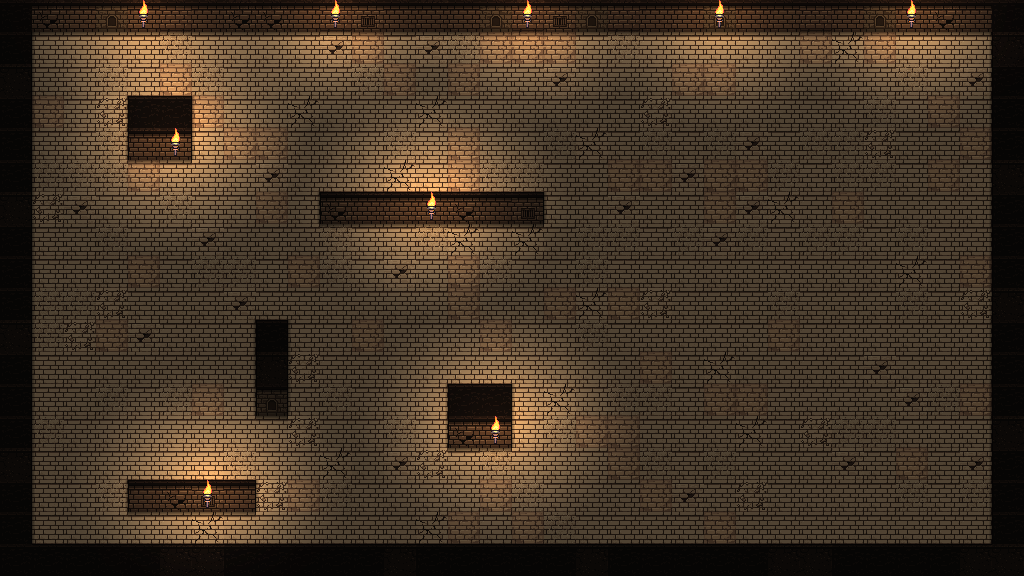
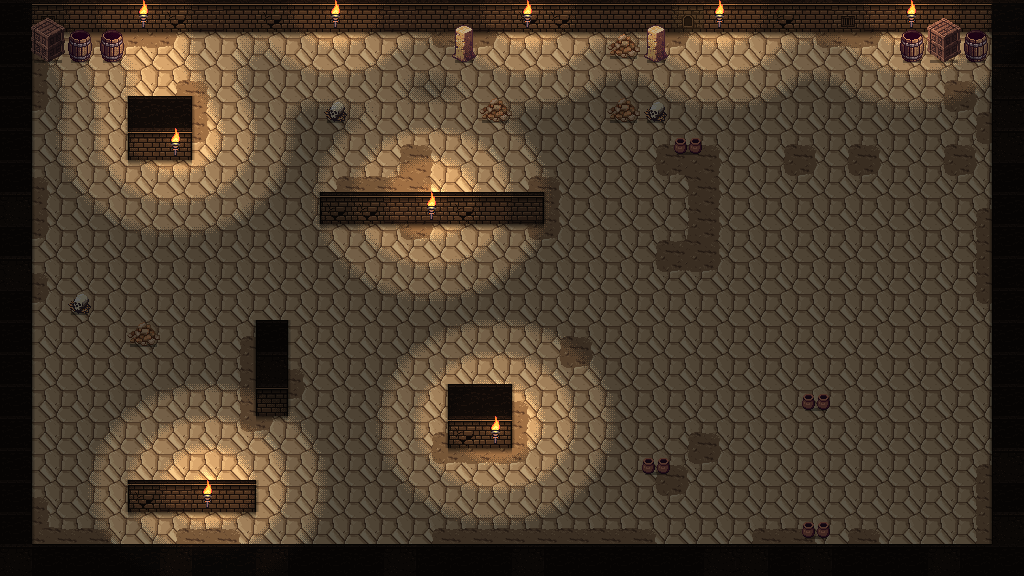
assets: 지하 미궁 맵 퀄리티 개선 (판석 바닥·단계 빛·벽 명암·소품)
사용자 지적: 바닥 반복·단조로움, 빛이 뿌옇고 탁함, 벽이 납작함, 장식 없음.
바닥은 판석↔모래 Wang 타일셋을 노이즈로 섞고, 빛은 5단계로 끊어 경계만 디더, 벽 턱·모서리 명암,
PixelLab 소품(통·상자·기둥·해골·돌무더기·항아리)을 얹음.

diff --git a/assets/concepts/pixellab/labyrinth/build_map_bg.py b/assets/concepts/pixellab/labyrinth/build_map_bg.py
@@ -1,19 +1,18 @@
 """지하 미궁 맵 바탕 그림 만들기.
 
 2026-11-19 사용자 요청: 첫 스테이지는 지하 미궁, 낡은 돌 미궁, 벽은 비스듬히(3/4) 보이게.
-같은 날 사용자 지적: 푸른 회색 돌(tiles_v1)은 하수도 느낌 → 참고 그림처럼 따뜻한 색(베이지 돌바닥·갈색 벽돌 벽),
-벽 윗면·바깥은 거의 검고, 횃불 둘레만 따뜻하게 밝게 (tiles_v2 + 횃불 + 빛).
+같은 날 ① 푸른 회색 돌(tiles_v1)은 하수도 느낌 → 따뜻한 색(tiles_v2) + 횃불 빛.
+② "분위기는 괜찮은데 퀄리티가 떨어짐" (바닥 반복·단조로움, 빛이 뿌옇고 탁함, 벽이 납작함, 장식 없음) →
+   바닥은 PixelLab Wang 타일셋(큰 판석 ↔ 모래·부스러기, floor_wang)을 노이즈로 섞어 격자·반복이 안 보이게,
+   빛은 몇 단계로 끊고 경계만 4×4 디더로 섞어 픽셀 그림답게, 벽은 윗면 턱 하이라이트·앞면 위 그늘·모서리 그늘,
+   소품은 PixelLab 그림(props): 막는 소품은 맵 글자(B 통, C 상자, I 기둥), 밟고 지나가는 해골·돌무더기·항아리는 자동으로 드문드문.
 
-글자 맵(assets/maps/<이름>.txt)을 읽어 칸마다 PixelLab 타일(32×32)을 골라 맵 크기의 그림 한 장으로 합친다.
-게임은 이 그림을 바닥에 한 번 그린다 (게임에는 PIL 이 필요 없음). 맵 글자를 바꾸면 이 스크립트를 다시 돌린다.
-
-칸 규칙 (그림이 충돌 칸과 정확히 겹치게 칸 안에서만 그린다):
-  - 바닥: 벽돌 바닥 변형 중 칸 좌표로 정해지는 것 (같은 맵이면 늘 같은 그림), 금·부스러기는 드물게.
-  - 벽: 아래 칸이 바닥이면 '앞에서 보이는 벽' → 위 FACE_TOP 줄은 벽 윗면, 그 아래는 벽돌 앞면(3/4 시점). 아래도 벽이면 윗면만.
-  - 벽 윗면이 바닥과 닿는 가장자리에는 테두리, 벽 바로 아래·옆 바닥에는 그늘.
-  - 앞에서 보이는 벽 줄에 TORCH_EVERY 칸마다 횃불을 걸고, 그림 전체를 어둡게 한 뒤 횃불 둘레만 따뜻하게 밝힌다.
+글자 맵(assets/maps/<이름>.txt)을 읽어 맵 크기의 그림 한 장으로 합친다. 게임은 이 그림을 바닥에 한 번 그린다
+(게임에는 PIL 이 필요 없음). 맵 글자를 바꾸면 이 스크립트를 다시 돌린다.
+그림은 충돌 칸과 정확히 겹친다: 벽은 칸 안에서만 그리고, 바닥 Wang 타일은 바닥끼리만 이어지므로 칸에 맞춰 놓는다.
 출력: assets/images/maps/<이름>_bg.png (맵 칸 수 × 32 픽셀), 미리보기 preview_<이름>_x2.png
 """
+import json
 import math
 import os
 import sys
@@ -23,24 +22,32 @@ from PIL import Image
 HERE = os.path.dirname(os.path.abspath(__file__))
 ROOT = os.path.normpath(os.path.join(HERE, '..', '..', '..', '..'))
 TILES = os.path.join(HERE, 'tiles_v2')
+WANG = os.path.join(HERE, 'floor_wang')
+PROPS_DIR = os.path.join(HERE, 'props')
 TORCH = os.path.join(HERE, 'torch_v1.png')
 T = 32
 FACE_TOP = 6  # 앞에서 보이는 벽에서 윗면이 차지하는 줄 수 (나머지는 벽돌 앞면)
+BLOCKING = {'B': 'barrel', 'C': 'crates', 'I': 'pillar'}  # game/world/tile_map.py PROPS 와 같음
+DECALS = [('bones', 2), ('rubble', 3), ('pots', 2)]  # 밟고 지나가는 소품 (그림, 비중)
+DECAL_CHANCE = 0.025  # 바닥 칸마다 소품이 놓일 확률 (칸 좌표로 정해져 늘 같음)
+SAND_SHARE = 0.16  # 바닥에서 모래·부스러기 구역의 대략 비율
+SAND_NEAR_WALL = 0.18  # 벽 가까이는 모래가 더 쌓임 (꼭짓점 노이즈에 더함)
 
-# tiles_v2 번호 (0 부터): 벽돌 바닥 0~5, 큰 판석 6·7(쓰지 않음: 섞으면 얼룩덜룩), 벽 윗면 8·9, 벽돌 앞면 10~13·15
-FLOOR = [(0, 30), (2, 6), (4, 6), (1, 3), (3, 2), (5, 2)]  # (타일, 비중)
+# tiles_v2 번호 (0 부터): 벽 윗면 8·9, 벽돌 앞면 10~13·15
 WALL_TOP = [(8, 3), (9, 1)]
 WALL_FACE = [(10, 10), (11, 3), (13, 3), (12, 1), (15, 1)]  # 15 = 빈 벽감, 12 = 쇠창살 환기구 (드물게)
 GREY_TO_BROWN = {(0x3a, 0x3a, 0x40): (0x35, 0x25, 0x1b), (0x55, 0x55, 0x5c): (0x5a, 0x41, 0x30),
                  (0x76, 0x76, 0x7c): (0x6e, 0x52, 0x3c)}  # 팔레트의 회색 → 갈색 (하수도 느낌 빼기)
 RIM = (10, 7, 6, 255)
+LEDGE = (0x83, 0x65, 0x4a, 255)  # 벽 윗면 앞 턱 하이라이트
 WALL_FACE_DARK = 0.8  # 벽 앞면은 바닥보다 어둡게
 TORCH_EVERY = 6  # 앞에서 보이는 벽 줄에서 몇 칸마다 횃불
 TORCH_SCALE = 0.62
-AMBIENT = 0.42  # 횃불 빛이 닿지 않는 곳의 밝기
-TORCH_LIGHT = 1.0  # 횃불 바로 앞에서 더해지는 밝기
 TORCH_RADIUS = 4.5 * T  # 빛이 닿는 거리 (픽셀)
-WARM = (1.08, 0.92, 0.72)  # 횃불 빛 색 (빨강·초록·파랑 배율)
+LIGHT_LEVELS = (0.38, 0.55, 0.75, 1.0, 1.25)  # 빛을 이 단계로 끊는다 (픽셀 그림답게)
+WARM = (1.08, 0.92, 0.72)  # 횃불 빛 색 (빨강·초록·파랑 배율), 밝은 단계일수록 강하게
+DITHER_SHARPNESS = 3.0  # 클수록 디더 띠가 좁아짐 (2배로 보면 체크 무늬가 바닥 전체에 깔려 지저분했음)
+BAYER = [[0, 8, 2, 10], [12, 4, 14, 6], [3, 11, 1, 9], [15, 7, 13, 5]]
 
 
 def lum(p):
@@ -73,12 +80,16 @@ def recolor(tile):
     return out
 
 
+def hash01(a, b, salt):
+    h = (a * 73856093) ^ (b * 19349663) ^ (salt * 83492791)
+    h = (h ^ (h >> 13)) * 1274126177 & 0xFFFFFFFF
+    return (h & 0xFFFF) / 0xFFFF
+
+
 def pick(choices, col, row, salt):
     """칸 좌표로 정해지는 고르기 (무작위처럼 보이지만 늘 같음)."""
-    h = (col * 73856093) ^ (row * 19349663) ^ (salt * 83492791)
-    h = (h ^ (h >> 13)) * 1274126177 & 0xFFFFFFFF
     total = sum(w for _, w in choices)
-    r = h % total
+    r = hash01(col, row, salt) * total
     for idx, w in choices:
         if r < w:
             return idx
@@ -86,40 +97,79 @@ def pick(choices, col, row, salt):
     return choices[-1][0]
 
 
+def value_noise(x, y, cell, salt):
+    """부드러운 값 노이즈 0~1 (cell 칸마다 무작위 값, 사이는 부드럽게 이음)."""
+    gx, gy = x / cell, y / cell
+    x0, y0 = math.floor(gx), math.floor(gy)
+    fx, fy = gx - x0, gy - y0
+    sx, sy = fx * fx * (3 - 2 * fx), fy * fy * (3 - 2 * fy)
+    v = [[hash01(x0 + i, y0 + j, salt) for i in (0, 1)] for j in (0, 1)]
+    top = v[0][0] + (v[0][1] - v[0][0]) * sx
+    bot = v[1][0] + (v[1][1] - v[1][0]) * sx
+    return top + (bot - top) * sy
+
+
+def load_wang():
+    sheet = Image.open(os.path.join(WANG, 'sheet.png')).convert('RGBA')
+    meta = json.load(open(os.path.join(WANG, 'metadata.json'), encoding='utf-8'))
+    tiles = meta['tileset_data']['tiles']
+    out = {}
+    for t in tiles:
+        c, bb = t['corners'], t['bounding_box']
+        key = tuple(c[k] == 'upper' for k in ('NW', 'NE', 'SW', 'SE'))
+        out.setdefault(key, sheet.crop((bb['x'], bb['y'], bb['x'] + bb['width'], bb['y'] + bb['height'])))
+    return out
+
+
 def build(name):
     lines = [l.rstrip('\r\n') for l in open(os.path.join(ROOT, 'assets', 'maps', f'{name}.txt'), encoding='utf-8')
              if l.strip()]
     rows, cols = len(lines), len(lines[0])
     tiles = [recolor(Image.open(os.path.join(TILES, f'tile_{i}.png')).convert('RGBA')) for i in range(16)]
-    base = lum_mean(tiles[0])
-    for i, _ in FLOOR:  # 바닥 변형 밝기를 기본 판에 맞춤 (바둑판처럼 보이지 않게)
-        scale(tiles[i], (0, 0, T, T), base / lum_mean(tiles[i]))
     face_base = lum_mean(tiles[WALL_FACE[0][0]])
-    for i, _ in WALL_FACE:  # 벽 앞면 변형 밝기도 기본 벽돌에 맞춤 (벽감 타일이 밝은 베이지라 튀었음)
+    for i, _ in WALL_FACE:  # 벽 앞면 변형 밝기를 기본 벽돌에 맞춤 (벽감 타일이 밝은 베이지라 튀었음)
         scale(tiles[i], (0, 0, T, T), WALL_FACE_DARK * face_base / lum_mean(tiles[i]))
+    wang = load_wang()
+    props = {n: Image.open(os.path.join(PROPS_DIR, f'{n}.png')).convert('RGBA')
+             for n in list(BLOCKING.values()) + [d for d, _ in DECALS]}
+    props = {n: p.crop(p.getbbox()) for n, p in props.items()}
 
-    def wall(c, r):  # r = 그림의 줄 (0 = 맨 위). 맵 밖은 벽으로 본다
+    def wall(c, r):  # r = 그림의 줄 (0 = 맨 위). 맵 밖은 벽으로 본다. 소품 칸은 바닥으로 그린다
         return not (0 <= c < cols and 0 <= r < rows) or lines[r][c] == '#'
 
     def front(c, r):
         return wall(c, r) and not wall(c, r + 1)
+
+    # 바닥 꼭짓점 (cols+1 × rows+1): 노이즈 + 벽 가까이 가산 → 모래·부스러기 여부
+    def near_wall(vx, vy):
+        return any(wall(vx + dx, vy + dy) for dx in (-1, 0) for dy in (-1, 0))
+
+    vals = {}
+    for vy in range(rows + 1):
+        for vx in range(cols + 1):
+            n = 0.55 * value_noise(vx, vy, 3.0, 7) + 0.45 * value_noise(vx, vy, 1.3, 8)  # 잘게 섞어 네모난 덩어리를 깸
+            vals[(vx, vy)] = n + (SAND_NEAR_WALL if near_wall(vx, vy) else 0)
+    cut = sorted(vals.values())[int(len(vals) * (1 - SAND_SHARE))]
+    sand = {k: v >= cut for k, v in vals.items()}
 
     img = Image.new('RGBA', (cols * T, rows * T), (0, 0, 0, 255))
     for r in range(rows):
         for c in range(cols):
             x, y = c * T, r * T
             if not wall(c, r):
-                img.alpha_composite(tiles[pick(FLOOR, c, r, 1)], (x, y))
+                key = (sand[(c, r)], sand[(c + 1, r)], sand[(c, r + 1)], sand[(c + 1, r + 1)])
+                img.alpha_composite(wang[key], (x, y))
             elif front(c, r):  # 아래가 바닥: 윗면 + 벽돌 앞면
                 img.alpha_composite(tiles[pick(WALL_TOP, c, r, 2)].crop((0, 0, T, FACE_TOP)), (x, y))
                 face = tiles[pick(WALL_FACE, c, r, 3)]
                 img.alpha_composite(face.crop((0, 0, T, T - FACE_TOP)), (x, y + FACE_TOP))
-                scale(img, (x, y + FACE_TOP, x + T, y + FACE_TOP + 2), 0.55)  # 윗면 끝 아래 그늘
+                for k, f in enumerate((0.5, 0.65, 0.8)):  # 턱 아래 그늘
+                    scale(img, (x, y + FACE_TOP + k, x + T, y + FACE_TOP + k + 1), f)
                 scale(img, (x, y + T - 3, x + T, y + T), 0.7)  # 벽 밑동
             else:
                 img.alpha_composite(tiles[pick(WALL_TOP, c, r, 2)], (x, y))
     px = img.load()
-    for r in range(rows):  # 벽 윗면 테두리
+    for r in range(rows):  # 벽 윗면 테두리·턱 하이라이트, 앞면 양 끝 그늘
         for c in range(cols):
             if not wall(c, r):
                 continue
@@ -127,14 +177,17 @@ def build(name):
             if not wall(c, r - 1):
                 for i in range(T):
                     px[x + i, y] = RIM
-            for dc, xx in ((-1, x), (1, x + T - 1)):
+            for dc, xx, inner in ((-1, x, x + 1), (1, x + T - 1, x + T - 2)):
                 if not wall(c + dc, r):
                     for j in range(T):
                         px[xx, y + j] = RIM
+                    if front(c, r):  # 앞면 양 끝은 모서리라 어둡게
+                        scale(img, (min(inner, xx), y + FACE_TOP, max(inner, xx) + 1, y + T), 0.7)
             if front(c, r):
                 for i in range(T):
+                    px[x + i, y + FACE_TOP - 2] = LEDGE  # 턱 위 하이라이트
                     px[x + i, y + FACE_TOP - 1] = RIM
-    for r in range(rows):  # 바닥 그늘
+    for r in range(rows):  # 바닥 그늘: 위가 벽이면 위쪽 6줄, 왼쪽·오른쪽이 벽이면 그쪽 3줄
         for c in range(cols):
             if wall(c, r):
                 continue
@@ -148,6 +201,29 @@ def build(name):
             if wall(c + 1, r):
                 for k, f in enumerate((0.6, 0.75, 0.88)):
                     scale(img, (x + T - 1 - k, y, x + T - k, y + T), f)
+
+    # 소품: 막는 소품(맵 글자) + 밟고 지나가는 소품(드문드문). 아래 가운데를 칸 아래쪽에 맞춤, 바닥에 작은 그림자
+    def place(prop, c, r, foot_pad):
+        x = c * T + (T - prop.width) // 2
+        y = r * T + T - foot_pad - prop.height
+        shadow_w = max(6, prop.width - 6)
+        sx = c * T + (T - shadow_w) // 2
+        scale(img, (sx, r * T + T - foot_pad - 2, sx + shadow_w, r * T + T - foot_pad + 1), 0.6)
+        img.alpha_composite(prop, (x, y))
+
+    special = set()
+    for r in range(rows):
+        for c in range(cols):
+            ch = lines[r][c]
+            if ch in 'PDG':
+                special |= {(c + dx, r + dy) for dx in (-1, 0, 1) for dy in (-2, -1, 0, 1)}
+    for r in range(rows):
+        for c in range(cols):
+            ch = lines[r][c]
+            if ch in BLOCKING:
+                place(props[BLOCKING[ch]], c, r, 2)
+            elif not wall(c, r) and ch == '.' and (c, r) not in special and hash01(c, r, 9) < DECAL_CHANCE:
+                place(props[pick(DECALS, c, r, 10)], c, r, 6)
 
     # 횃불: 앞에서 보이는 벽 줄을 왼쪽부터 세어 TORCH_EVERY 칸마다 (짧은 줄은 가운데 하나)
     torches = []
@@ -177,23 +253,29 @@ def build(name):
         img.alpha_composite(torch, (x, y))
         flames.append((x + torch.width / 2, y + torch.height * 0.2))
 
-    # 빛: 전체를 AMBIENT 로 어둡게, 횃불 둘레는 따뜻하게 밝게 (가까울수록 더 밝음)
+    # 빛: 밝기를 LIGHT_LEVELS 단계로 끊고 단계 사이는 4×4 디더로 섞는다 (매끄러운 그라데이션은 뿌옇게 보였음)
     px = img.load()
+    levels = LIGHT_LEVELS
     for y in range(img.height):
         for x in range(img.width):
-            light = AMBIENT
-            warm = 0.0
+            light = levels[0]
             for fx, fy in flames:
                 d = math.hypot(x - fx, (y - fy) * 1.15)
                 if d < TORCH_RADIUS:
-                    k = (1 - d / TORCH_RADIUS) ** 1.6
-                    light += TORCH_LIGHT * k
-                    warm += k
-            warm = min(1.0, warm)
-            r_, g_, b_, a_ = px[x, y]
+                    light += (levels[-1] - levels[0]) * (1 - d / TORCH_RADIUS) ** 1.5
+            light = min(levels[-1], light)
+            i = max(k for k in range(len(levels)) if levels[k] <= light + 1e-9)
+            if i < len(levels) - 1:
+                frac = (light - levels[i]) / (levels[i + 1] - levels[i])
+                frac = min(1.0, max(0.0, (frac - 0.5) * DITHER_SHARPNESS + 0.5))  # 디더는 단계 경계 좁은 띠에만
+                if frac > (BAYER[y % 4][x % 4] + 0.5) / 16:
+                    i += 1
+            lv = levels[i]
+            warm = i / (len(levels) - 1)
             tint = [1 + (w - 1) * warm for w in WARM]
-            px[x, y] = (min(255, round(r_ * light * tint[0])), min(255, round(g_ * light * tint[1])),
-                        min(255, round(b_ * light * tint[2])), a_)
+            r_, g_, b_, a_ = px[x, y]
+            px[x, y] = (min(255, round(r_ * lv * tint[0])), min(255, round(g_ * lv * tint[1])),
+                        min(255, round(b_ * lv * tint[2])), a_)
     out_dir = os.path.join(ROOT, 'assets', 'images', 'maps')
     os.makedirs(out_dir, exist_ok=True)
     img.save(os.path.join(out_dir, f'{name}_bg.png'))

diff --git a/docs/DECISIONS.md b/docs/DECISIONS.md
@@ -863,5 +863,13 @@
   큰 판석 2종(안 씀), 거의 검은 벽 윗면 2종, 갈색 벽돌 앞면 6종(환기구·벽감 포함)) + 벽에 거는 횃불(`torch_v1.png`, PixelLab).
   팔레트의 회색은 갈색으로 바꾸고, 벽 앞면 변형 밝기를 기본 벽돌에 맞춘 뒤 0.8 배. 앞에서 보이는 벽 줄에 6칸마다(짧은 줄은 가운데)
   횃불을 걸고, 그림 전체를 0.42 배로 어둡게 한 뒤 횃불 둘레(반지름 4.5칸)만 따뜻한 색으로 밝힘 (불꽃은 아직 움직이지 않음).
-- 아직 아님: 인물이 벽 뒤(위쪽)에 설 때 벽 앞면이 인물을 가리는 앞뒤 그리기, 횃불 불꽃 움직임, 뼈·돌무더기 같은 장식.
+- (같은 날 사용자: 분위기는 괜찮은데 퀄리티가 떨어짐 → 바닥 반복·단조로움, 빛이 뿌옇고 탁함, 벽이 납작함, 장식 없음 모두)
+  - 바닥: 예전 바닥 타일은 사실 벽돌 벽 무늬(옆에서 본 벽돌)라 32 픽셀마다 격자로 보였다. PixelLab Wang 타일셋(pro, 큰 판석 ↔ 모래·부스러기,
+    `floor_wang/`)을 꼭짓점 노이즈로 섞음 (모래 약 16%, 벽 가까이 더 쌓임). 바닥끼리만 이어지므로 칸에 맞춰 놓아도 충돌과 어긋나지 않음.
+  - 빛: 매끄러운 그라데이션 → 밝기 5단계(0.38~1.25)로 끊고 단계 경계 좁은 띠만 4×4 디더 (2배로 보면 넓은 디더가 체크 무늬로 지저분했음).
+  - 벽: 윗면 앞 턱 하이라이트 + 테두리, 턱 아래 3줄 그늘, 앞면 양 끝 모서리 그늘.
+  - 소품(PixelLab, `props/`): 막는 소품은 맵 글자 `B` 통·`C` 상자 더미·`I` 부서진 기둥(벽처럼 못 지나감, `TileMap.props`),
+    밟고 지나가는 해골·돌무더기·항아리는 바닥 칸 약 2.5% 에 칸 좌표로 정해 놓음 (주인공·허수아비·골렘 둘레는 비움). 소품 밑에 작은 그림자.
+    막는 소품은 위가 벽인 칸에만 둔다 (그림이 바탕에 박혀 있어 소품 뒤에 인물이 서면 앞뒤가 틀리므로).
+- 아직 아님: 인물이 벽 뒤(위쪽)에 설 때 벽 앞면이 인물을 가리는 앞뒤 그리기, 횃불 불꽃 움직임.
 

diff --git a/assets/README.md b/assets/README.md
@@ -58,7 +58,7 @@
 | `images/player/weapons/old_sword_front_3.png` | 사용자 PixelLab(pixellab.ai) 계정으로 생성한 정면 3타 그림의 칼을 Claude Code가 떼어 칼 색으로 바꿈 (`export_to_game.py`, 2026-11-17) | PixelLab 이용약관에 따름 (사용자 계정 생성물) | 96×64 × 8, 찌르는 6~8번째만 그림. 정면 3타 찌르기용 칼 그림. D-031 |
 | `images/player/weapons/old_sword_back_{front,side,back}.png` | Claude Code 제작: 낡은 검 그림에 칼집을 씌우고 기울여 계산 (`concepts/weapons/build_back_sword.py`, 2026-11-18) | 프로젝트 소유 | 64×64, 아래 가운데가 발 밑. 등에 멘 칼. D-049 |
 | `images/player/weapons/old_sword.png` | Claude Code 제작 (`concepts/weapons/build_old_sword.py`, 2026-11-17). 컨셉 시트의 낡은 검 기준 | 프로젝트 소유 | 56×10, 칼끝 오른쪽, 손이 한가운데. D-022 |
-| `images/maps/test_room_bg.png` | 사용자 PixelLab(pixellab.ai) 계정으로 생성한 지하 미궁 타일(`concepts/pixellab/labyrinth/tiles_v2/`)·횃불(`torch_v1.png`)을 Claude Code가 칸마다 합치고 빛을 계산함 (`build_map_bg.py`, 2026-11-19) | PixelLab 이용약관에 따름 (사용자 계정 생성물) | 1024×576 (맵 32×18칸 × 32). D-052 |
+| `images/maps/test_room_bg.png` | 사용자 PixelLab(pixellab.ai) 계정으로 생성한 지하 미궁 타일(`concepts/pixellab/labyrinth/tiles_v2/`)·바닥 Wang 타일셋(`floor_wang/`)·횃불(`torch_v1.png`)·소품(`props/` 통·상자·해골·돌무더기·기둥·항아리)을 Claude Code가 칸마다 합치고 빛을 계산함 (`build_map_bg.py`, 2026-11-19) | PixelLab 이용약관에 따름 (사용자 계정 생성물) | 1024×576 (맵 32×18칸 × 32). D-052 |
 
 > ~~`concepts/player_walk_reference.png`, `images/player/{idle,walk}_{front,back,side}.png`~~ (2026-11-03 v3로 교체하며 삭제. v1/v2 `player_master` 이미지는 커밋하지 않았고 v3 결과와 섞이지 않음)
 

diff --git a/TASKS.md b/TASKS.md
@@ -7,7 +7,7 @@
 
 | ID | 작업 | 상태 | 담당 | 브랜치 | 비고 |
 |---|---|---|---|---|---|
-| T-051 | 지하 미궁 맵 그림 (첫 스테이지) | 진행 중 | Claude Code | `claude/labyrinth-tileset` | 따뜻한 돌 미궁(베이지 바닥·갈색 벽돌·횃불 빛), PixelLab 타일을 칸마다 합친 바탕 그림, 벽 윗면 + 3/4 벽돌 앞면 (D-052). 횃불 움직임·장식·벽 앞뒤 그리기·미궁 구조 남음 |
+| T-051 | 지하 미궁 맵 그림 (첫 스테이지) | 진행 중 | Claude Code | `claude/labyrinth-tileset` | 따뜻한 돌 미궁: 판석·모래 Wang 바닥, 3/4 벽(턱·모서리 명암), 단계 끊은 횃불 빛, 소품(B·C·I 막음, 바닥 장식) (D-052). 횃불 움직임·벽 앞뒤 그리기·미궁 구조 남음 |
 | T-050 | 공격 버튼 누르고 있으면 콤보 이어짐 | 검토 중 | Claude Code | `claude/golem-stomp-vfx` | 누르는 동안 입력 기억을 매 프레임 다시 채움, 쿨타임은 그대로 (D-050) |
 | T-049 | 칼을 등에 멤 | 검토 중 | Claude Code | `claude/golem-stomp-vfx` | 공격·패링 말고는 칼집째 등에, 몸을 따라 움직임, 무기별 그림 (D-049). 뽑는 동작 없음 |
 | T-048 | 주인공 후면 공격 1·2·3타 그림 | 검토 중 | Claude Code | `claude/golem-stomp-vfx` | 사용자 확인 완료 (2026-11-18). 정면 8장을 뒤에서 본 모습(ChatGPT) → 8장 함께 화풍 입힘(PixelLab). 1타 오른쪽에서 꺼내 머리 위로 넘겨 벰, 잔상 몸 뒤, 크기·박자 정면과 같음. 후면 망토 명암은 넣었다가 뺌 (D-048, D-051 취소) |

diff --git a/PRE-PRD.md b/PRE-PRD.md
@@ -259,6 +259,8 @@
 - **[미정]** 던전 방 단위 카메라 방식(방 전환, 스크롤 범위 등)은 던전 구조를 정할 때 결정합니다.
 - **[확정]** 첫 스테이지 맵 그림 (2026-11-19 사용자 결정): **지하 미궁**, 낡은 돌 미궁 분위기(~~회갈색 돌바닥·돌벽돌 벽, 이끼·물웅덩이~~ → 하수도 느낌이라 같은 날 **따뜻한 베이지 돌바닥·갈색 벽돌 벽, 거의 검은 벽 윗면, 벽 횃불의 따뜻한 빛**으로),
   벽은 **비스듬히(3/4)** 보여 윗면과 벽돌 앞면이 보입니다. 그림은 충돌 칸과 정확히 겹칩니다. 미궁 구조(방·통로)는 나중에 정합니다.
+  같은 날 퀄리티 개선: 바닥은 큰 판석과 모래·부스러기가 자연스럽게 섞이고, 빛은 픽셀풍으로 단계를 끊고, 벽 턱·모서리 명암,
+  소품(통·상자·기둥은 못 지나감, 해골·돌무더기·항아리는 바닥 장식).
 - **[제안]** 실제 에셋 원본은 16×16 픽셀 타일을 2배 확대해 사용할 수 있으나, 원본 제작 해상도는 아직 확정하지 않았습니다.
 - **[확정]** 이동 판정은 ~~8방향이지만~~ 상하좌우 4방향이며(2026-11-03 변경), 캐릭터 외형은 정면(front)·후면(back)·측면(side) **3종 원본**으로 4방향(front/back/left/right)을 표현합니다. 왼쪽·오른쪽은 측면 이미지 좌우 반전을 활용합니다.
   - **예외 (2026-11-11 사용자 요청)**: 좌우가 비대칭인 동작은 왼쪽을 볼 때 뒤집지 않고 **왼쪽 전용 그림(`side_left`)**을 씁니다.

diff --git a/docs/HANDOFF.md b/docs/HANDOFF.md
@@ -18,7 +18,7 @@
 
 ## 2026-11-19 — 지하 미궁 맵 그림 (Claude Code)
 - 브랜치 / 마지막 커밋: `claude/labyrinth-tileset` (`claude/golem-stomp-vfx` 위에서 시작) / 이 항목을 담은 커밋
-- 한 일: PixelLab 타일로 시험 맵을 따뜻한 돌 지하 미궁 그림으로 (베이지 벽돌 바닥, 검은 벽 윗면 + 3/4 갈색 벽돌 앞면, 벽 횃불과 빛). 처음 만든 푸른 회색 판은 하수도 느낌이라 바꿈. 게임은 맵 크기 그림 한 장을 바닥에 그림 (D-052).
+- 한 일: PixelLab 타일로 시험 맵을 따뜻한 돌 지하 미궁 그림으로 (베이지 벽돌 바닥, 검은 벽 윗면 + 3/4 갈색 벽돌 앞면, 벽 횃불과 빛). 처음 만든 푸른 회색 판은 하수도 느낌이라 바꿈. 이어서 퀄리티 개선: 판석·모래 Wang 바닥, 단계 끊은 빛, 벽 턱·모서리, 소품(맵 글자 B·C·I 는 못 지나감). 게임은 맵 크기 그림 한 장을 바닥에 그림 (D-052).
 - 현재 상태: `python -m unittest` 통과. 게임 창 정지 화면으로 확인, 실제 모니터 플레이는 안 함.
 - 다음 작업자가 알아야 할 것: 맵 글자를 바꾸면 `python assets/concepts/pixellab/labyrinth/build_map_bg.py` 를 다시 돌릴 것.
 - 남은 문제 / 다음 할 일: 횃불·뼈·돌무더기 장식, 벽 앞면이 그 뒤에 선 인물을 가리는 앞뒤 그리기, 미궁 구조(방·통로). 후면 2·3타 3차 ChatGPT 결과 대기. 푸시 보류.
